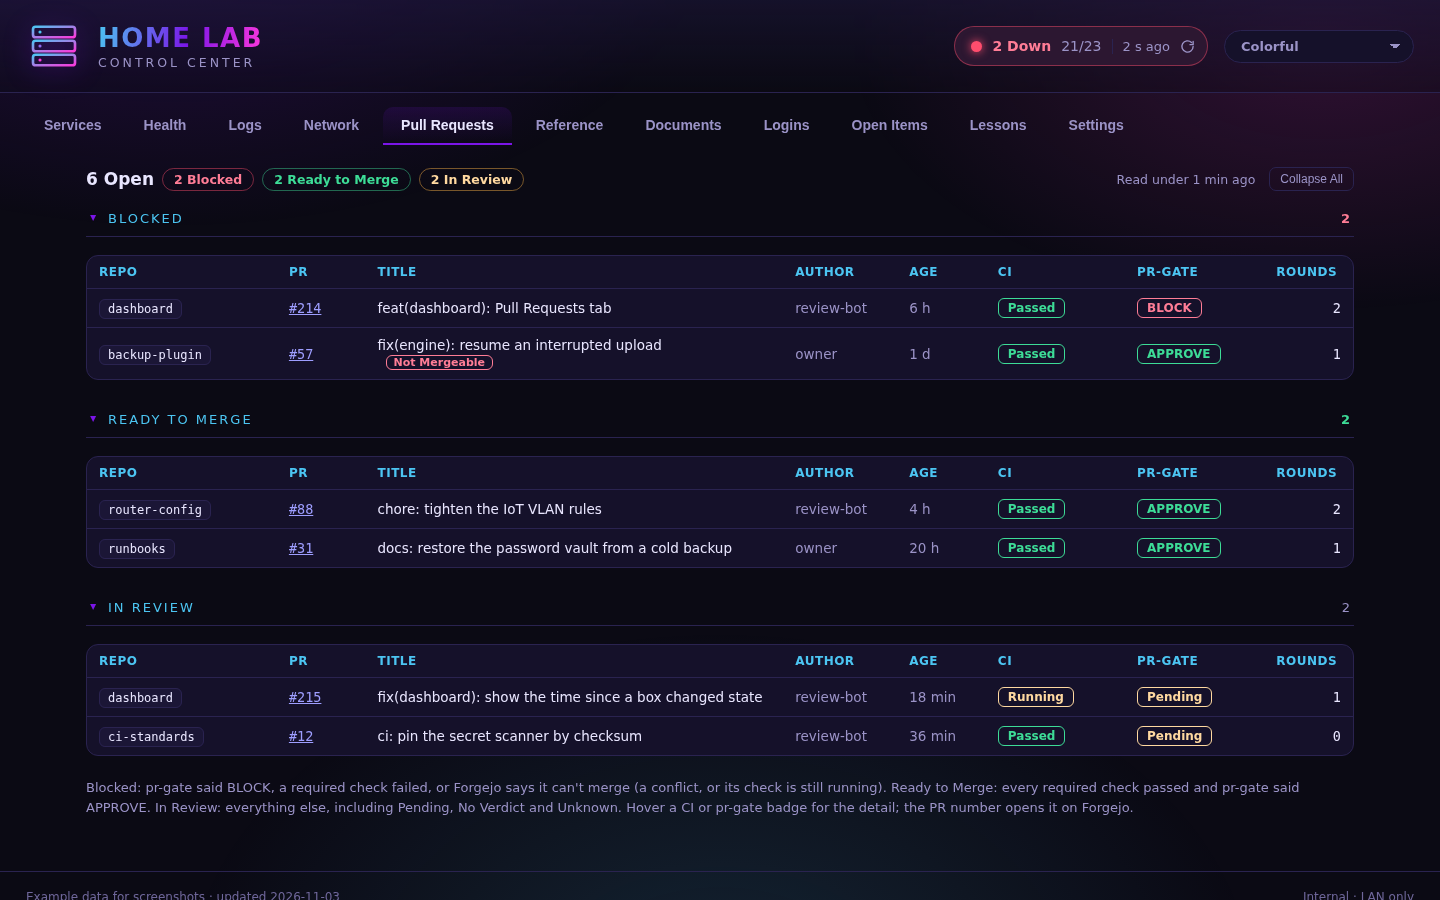
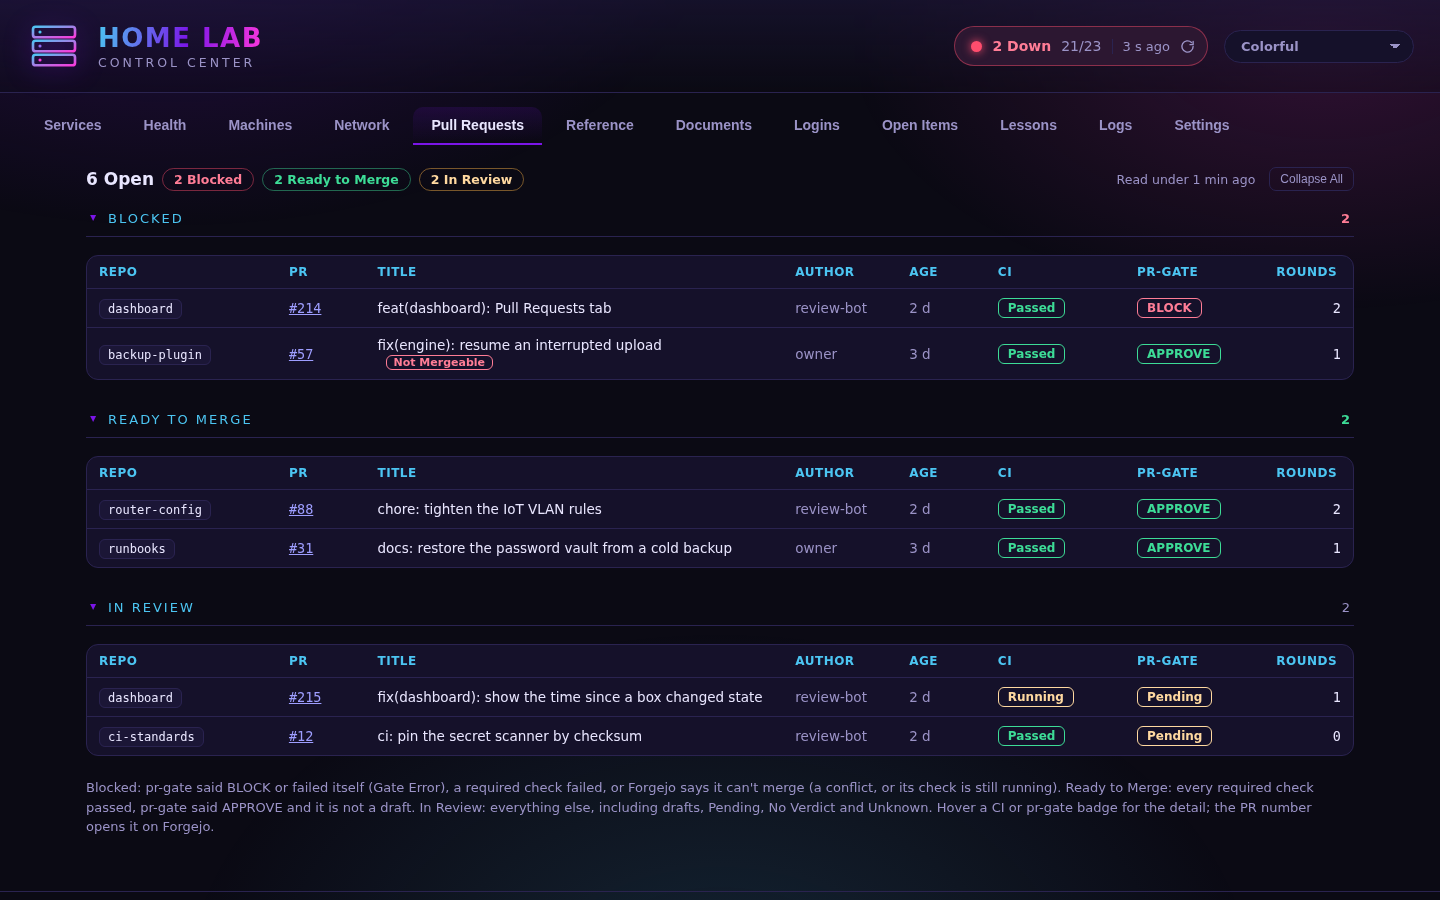
docs: Machines tab, with example screenshots
The README gains a Machines section: a card per machine with CPU,
memory and the hottest sensor at a glance, and inside Grafana-style
gauges and charts (CPU by mode, memory, load, disk and network per
device, every temperature sensor, pressure stall, filesystems and ZFS
pools), for Linux and FreeBSD alike. How It's Built and Security say
how the metrics are collected and who can read them. Logs moves next
to Settings, as on the page.

Screenshots: machines.png, machines-card.png and
machines-firewall.png are new; services.png and pull-requests.png are
re-taken for the new tab bar. All example data.

diff --git a/README.md b/README.md
@@ -1,6 +1,6 @@
 # Home Lab Control
 
-A single dashboard for running a home lab: what's up, what broke overnight, how the network is laid out and how busy each link is, which code changes are waiting on review, where every container lives, who gets told when something fails, and how to get back in when something goes wrong.
+A single dashboard for running a home lab: what's up, what broke overnight, how hard every machine is working, how the network is laid out and how busy each link is, which code changes are waiting on review, where every container lives, who gets told when something fails, and how to get back in when something goes wrong.
 
 It runs on the lab's own Unraid server, stays on the LAN behind basic auth, and has no cloud dependency.
 
@@ -27,8 +27,21 @@ Each host gets a card that is green, amber or red. Problems, warnings and notes 
 
 A card also turns red if its host hasn't reported for over a day. A host that is down can't report that it's down, so a missing report counts as a problem in itself.
 
-### Logs
-Syslog from every server, the router and Home Assistant, collected in one place and kept for 30 days. You can filter by host and app, or search with a regex. Logs are stored in Loki and viewed in Grafana inside the dashboard, behind the same login.
+### Machines
+Every machine in the lab reports its vital signs: servers, the firewalls, the DNS Pi, the build box and the dev VM. Each machine is a card. Collapsed, it shows CPU, memory and its hottest sensor, lined up from card to card so a busy or hot machine stands out, plus how long it has been up. A machine that stops answering turns red and says Down.
+
+![Machines](screenshots/machines.png)
+
+Opened, a card reads like a Grafana node dashboard:
+- **Stat row:** arc gauges for CPU, memory and the fullest disk (amber at 75%, red at 90%), threads, RAM, load, and the hottest sensor tinted at 70 and 85 °C with its trend behind it.
+- **Charts:** CPU by mode, memory split into used, cache and free, load over 1, 5 and 15 minutes, disk and network per device, every temperature sensor (each NVMe drive on its own line, an 85 °C limit drawn), pressure stall, and a filesystem list that includes each ZFS pool.
+- **Ranges:** 1 hour, 6 hours, 24 hours or 7 days, with time ticks in your local time.
+
+![A server's card](screenshots/machines-card.png)
+
+Linux and FreeBSD report memory and disks under different names. The tab reads both, so the firewalls get the same memory and disk panels as the servers. Nothing is ever shown as zero when it's really missing. A reading the machine doesn't have (a firewall has no temperature sensors or pressure stall) is listed in one line at the foot of the card, and a reading that couldn't be fetched says so, with the reason.
+
+![A firewall's card](screenshots/machines-firewall.png)
 
 ### Network
 A topology diagram of the whole network (router, switches, access points, servers) and the VLAN plan as an editable table.
@@ -63,6 +76,9 @@ The alerts that page the phone are set up from the dashboard's Settings tab, sav
 ![Alerts](screenshots/alerts.png)
 
 ![Built-in Alerts and Daily Digest](screenshots/alerts-digest.png)
+
+### Logs
+Syslog from every server, the router and Home Assistant, collected in one place and kept for 30 days. You can filter by host and app, or search with a regex. Logs are stored in Loki and viewed in Grafana inside the dashboard, behind the same login.
 
 ### Settings
 Besides the alerts, Settings holds the per-browser choices: which tabs show in the top menu and which one the dashboard opens on, how the network flow animation behaves (follow the system's reduced-motion setting, always animate, or never), and how the status at the top right looks: one capsule, a ring with two lines, or quiet when healthy, with its count, time since the last check and how often it checks. A theme picker at the top right offers nine colour themes, and the network diagram keeps its own dark canvas and link colours in all of them.
@@ -129,6 +145,7 @@ How it works:
 - **Link data:** the same service reads the UniFi controller every 30 seconds for each switch port's link state, speed, traffic and bond membership, and each device's uplink. A slow controller never holds up other readers.
 - **Pull requests:** the API service reads the Git server's API in the background, at most once a minute and only while someone has the tab open, so the page never waits on it.
 - **Alerts:** Grafana alerting sends to Telegram and email. The dashboard edits contact points, rules and routes through Grafana's API, and the Daily Digest is built by the API service from Grafana's alert history and Loki.
+- **Machine metrics:** node_exporter runs on every machine (a container on the Unraid servers, a package on Linux hosts, a plugin on the firewalls) and Prometheus scrapes it every 15 seconds and keeps 30 days. The API service asks Prometheus a fixed set of questions per range in the background and serves the answer to the Machines tab, so the browser never talks to Prometheus.
 - **GPU stats:** a separate small service reads the GPU through the NVIDIA driver, so the main API needs no GPU access.
 - **Logs:** Grafana Alloy ships syslog to Loki, and Grafana shows it inside the Logs tab.
 - **AI:** Ollama on a local GPU answers AI Explain requests. The API reads evidence from Loki and sends the model only scrubbed text.
@@ -144,5 +161,6 @@ How it works:
 - The editable tables, AI Explain and the link data accept requests only from the dashboard's web server.
 - The alert mail password is a file on the server, read by Grafana and the API service; the page only ever shows the sender and the server.
 - The Pull Requests tab reads the Git server with its own bot account: read-only, token-only (it can't sign in on the web), and its token lives in a file on the server. A write with it is refused.
+- Prometheus answers only on the stack's internal network, so nothing on the LAN can query it. The exporters it reads are read-only metrics endpoints on the LAN, with no controls and no secrets.
 - UniFi is read with a View Only local account. Its login lives in a file on the server, never in the repository.
 - Health reports are accepted only from the lab's own servers, and each server can update only its own card.
